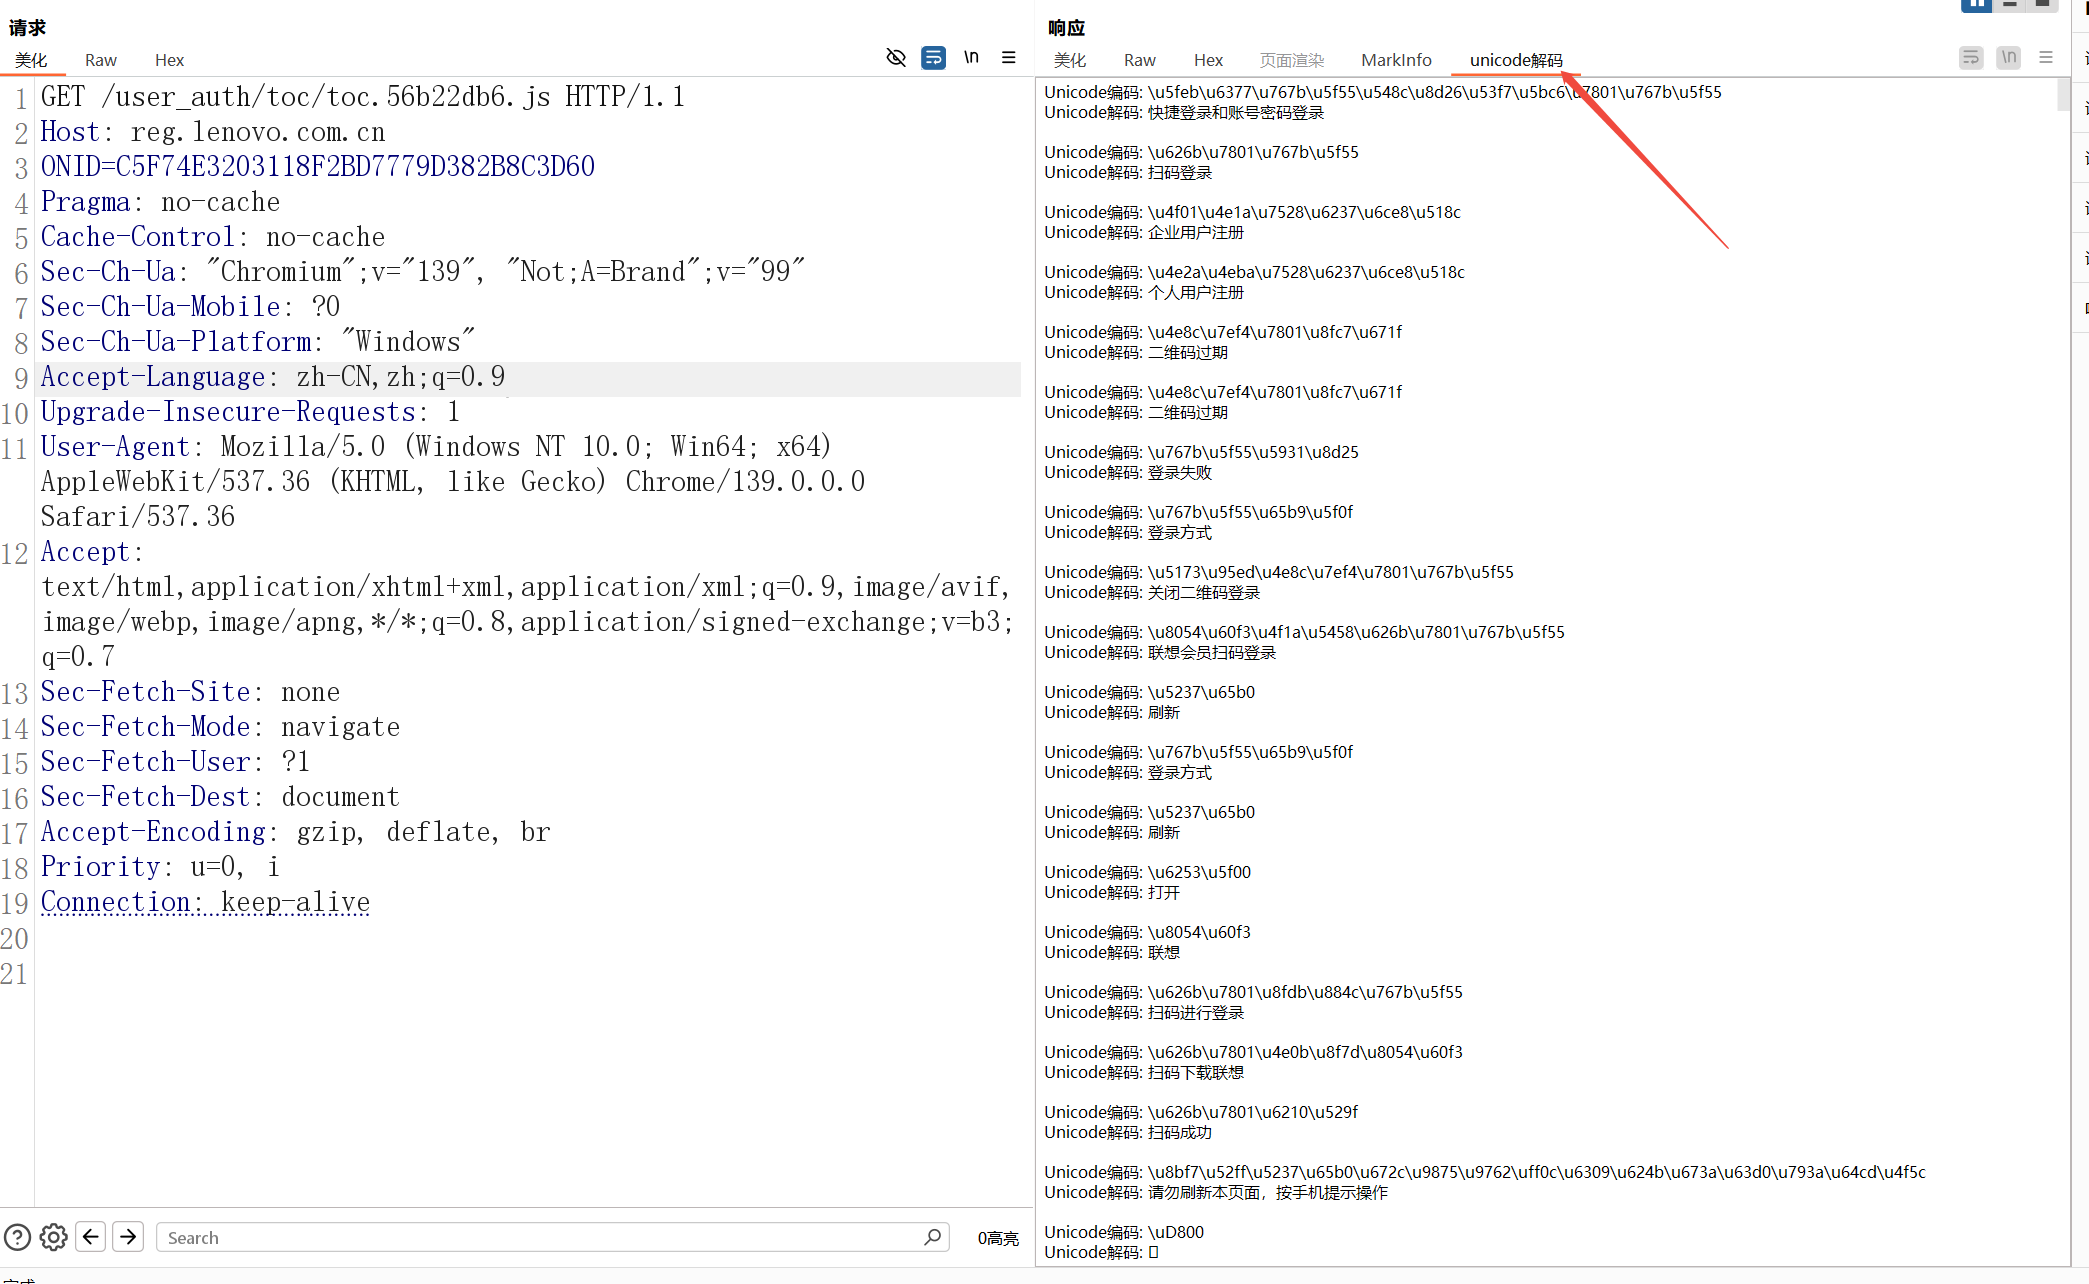
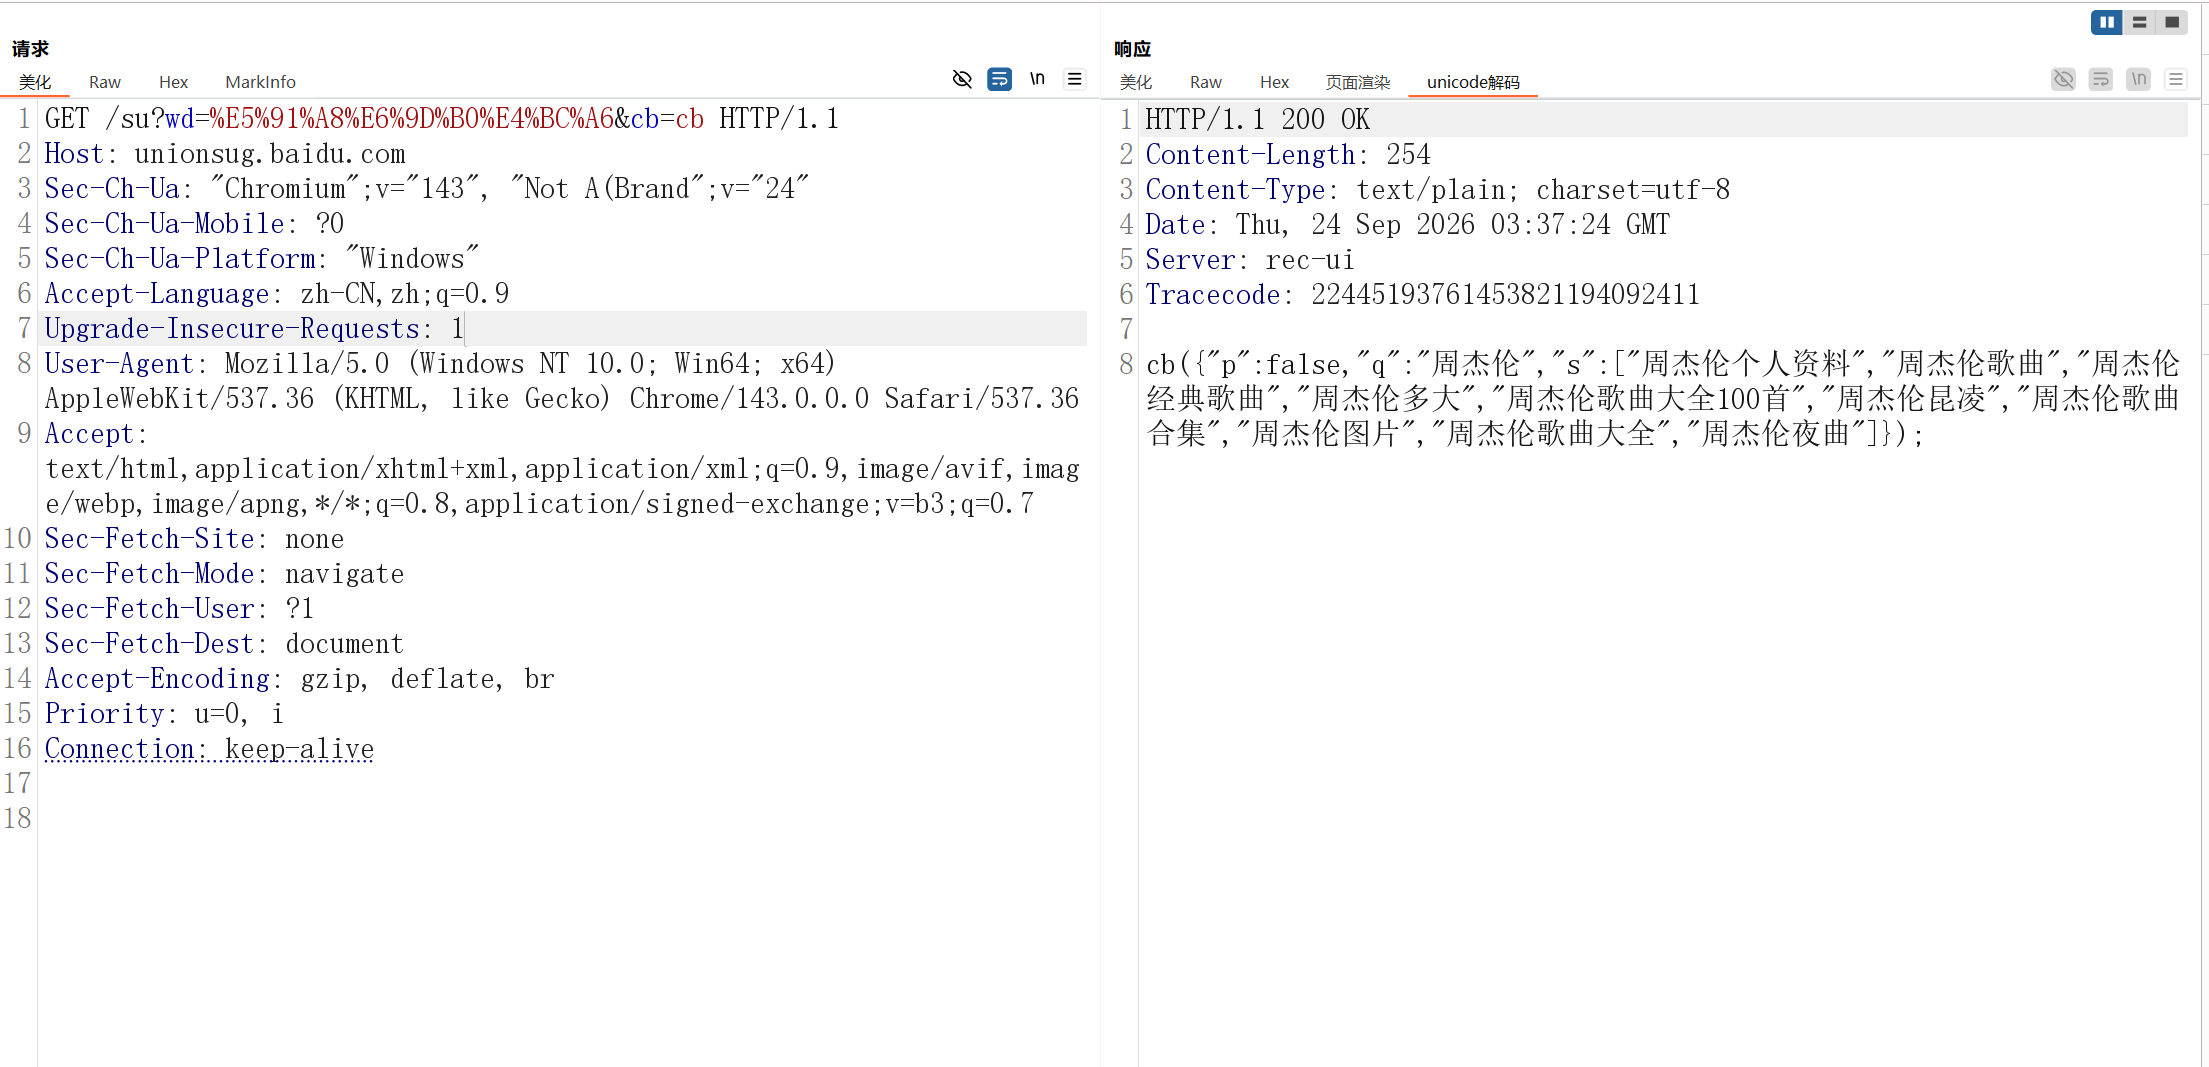
README：替换为新版效果图（无内嵌标题栏的解码视图）

diff --git a/README.md b/README.md
@@ -9,7 +9,9 @@
 - 响应中无Unicode编码时原样展示报文
 - 标签页内支持文本选取并透传给 Burp（右键“发送到”等操作可用）
 
-![img.png](img.png)
+![效果演示](img.png)
+
+*左侧为对快速测试接口的请求，右侧「unicode解码」标签中展示解码后的完整响应（语法高亮、行号跟随Burp原生样式）*
 
 ## 环境要求
 - JDK 21 及以上
